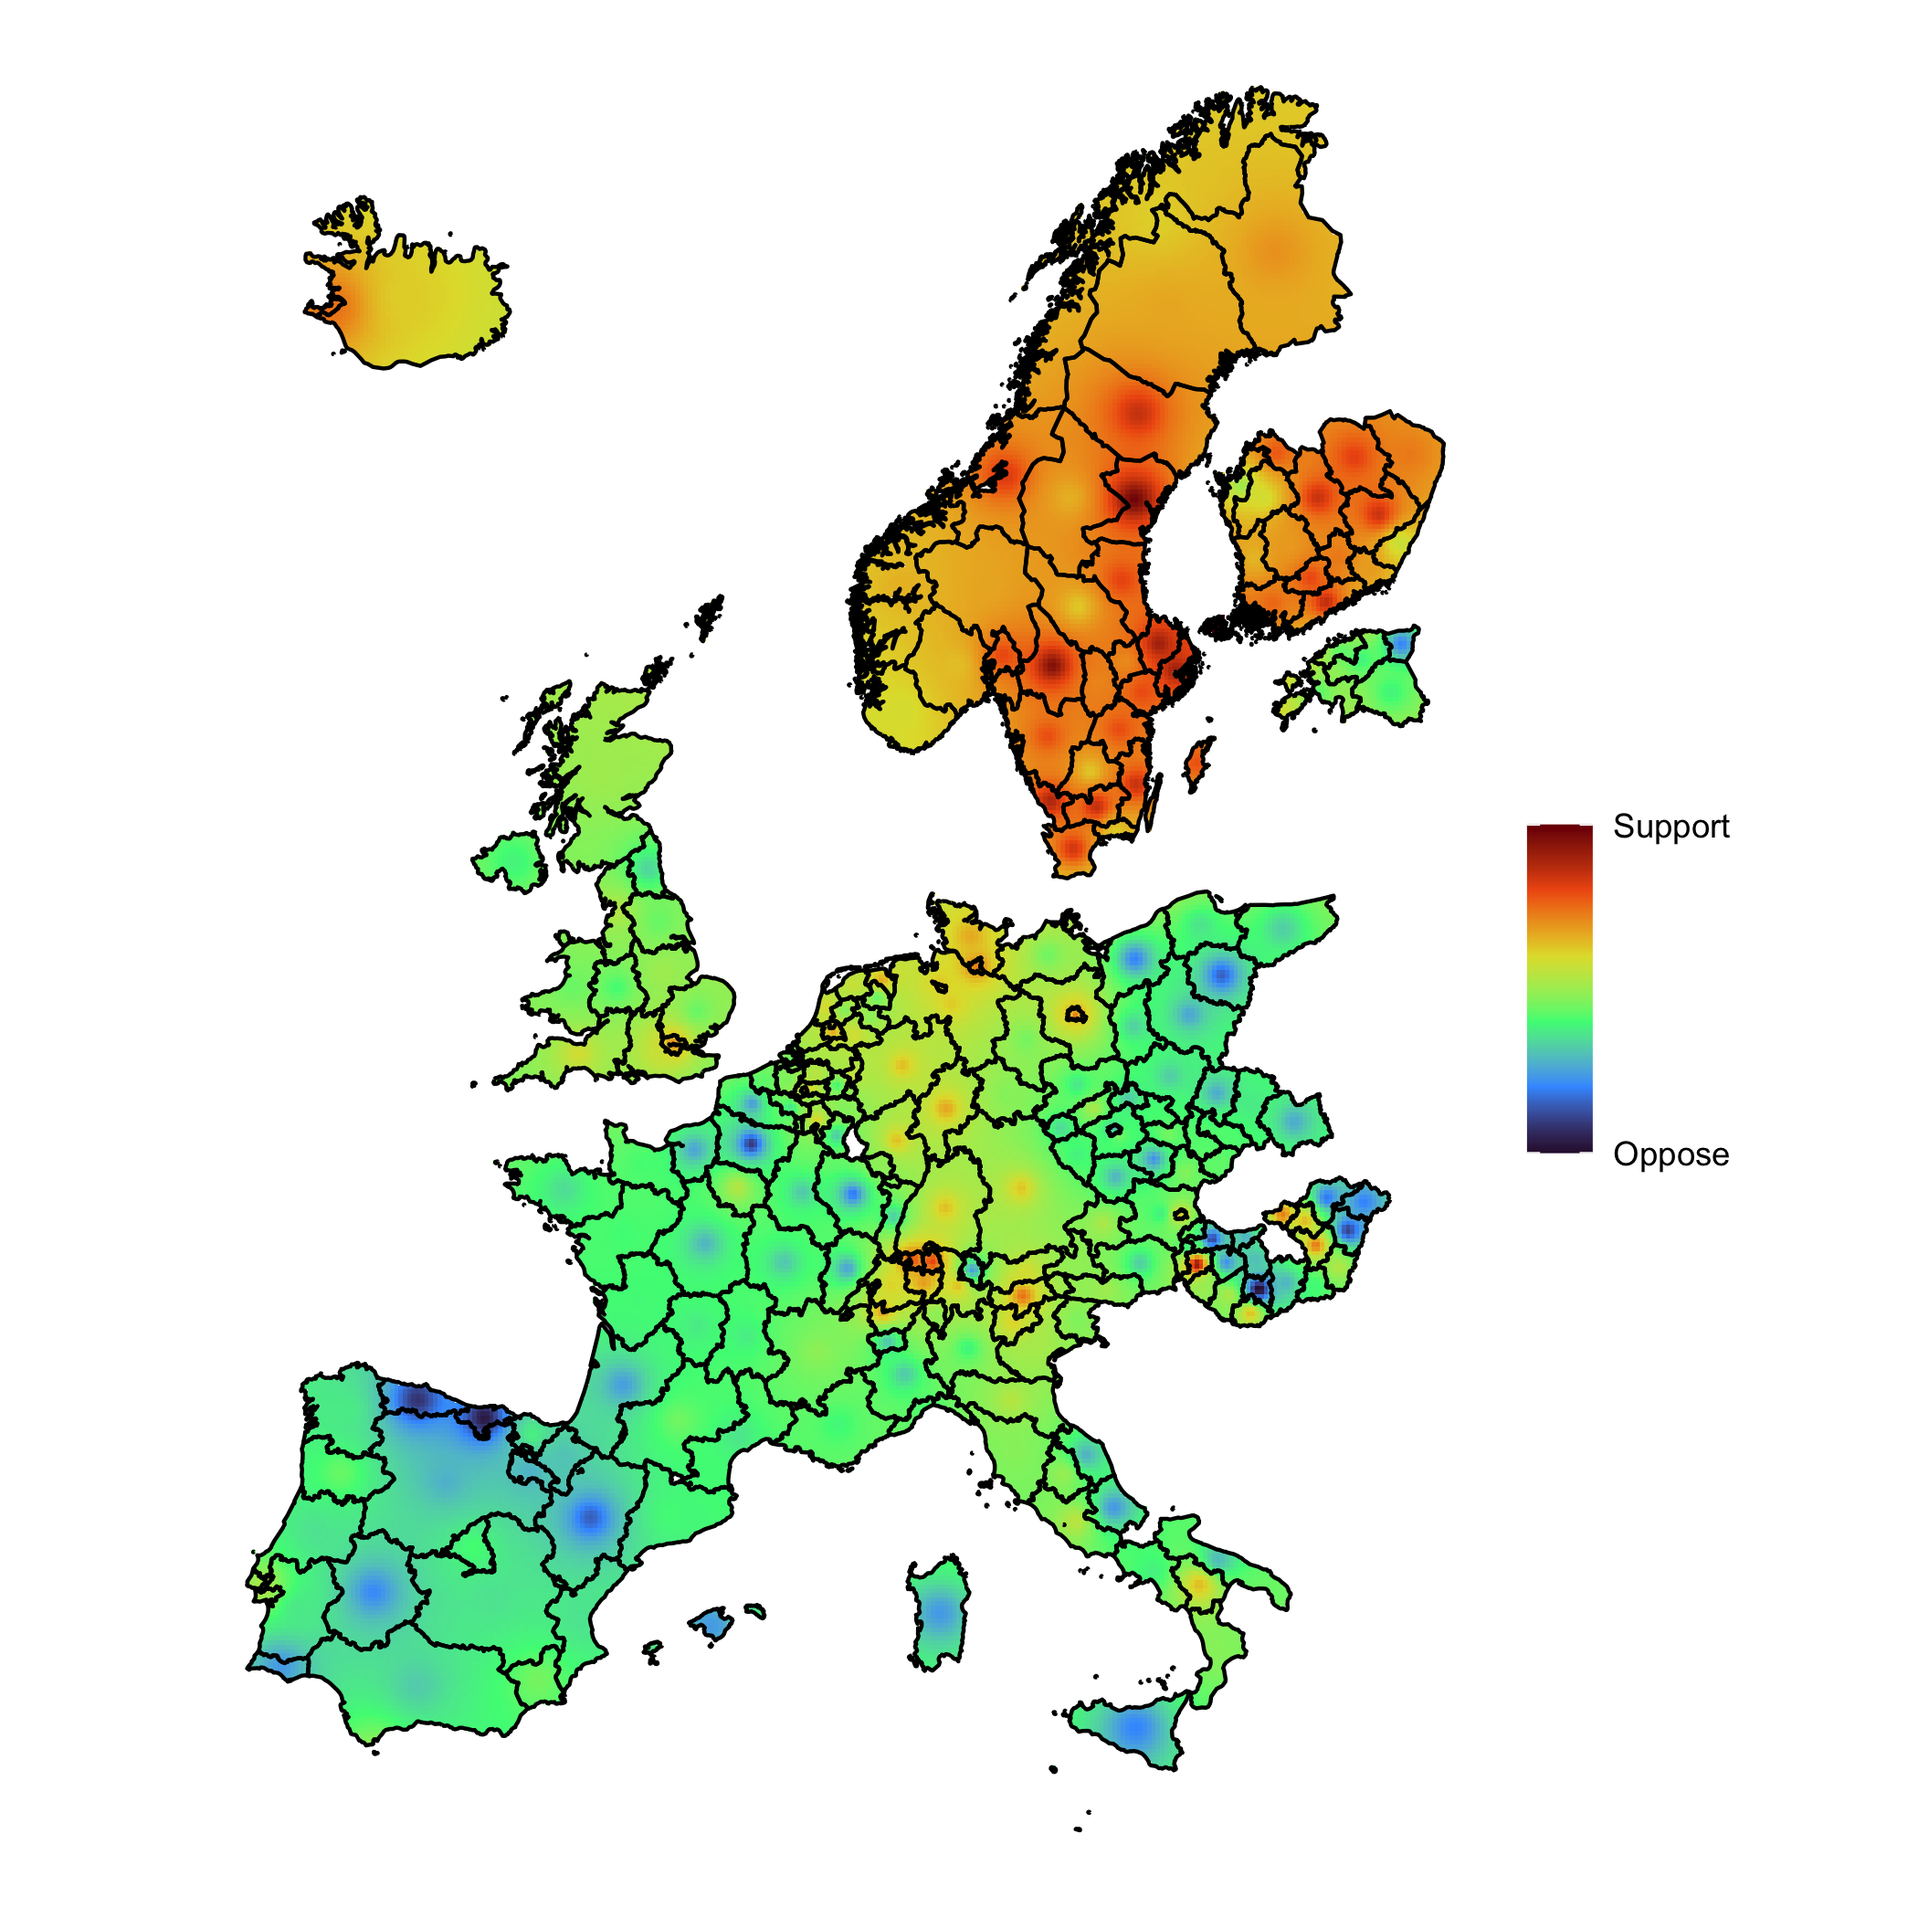
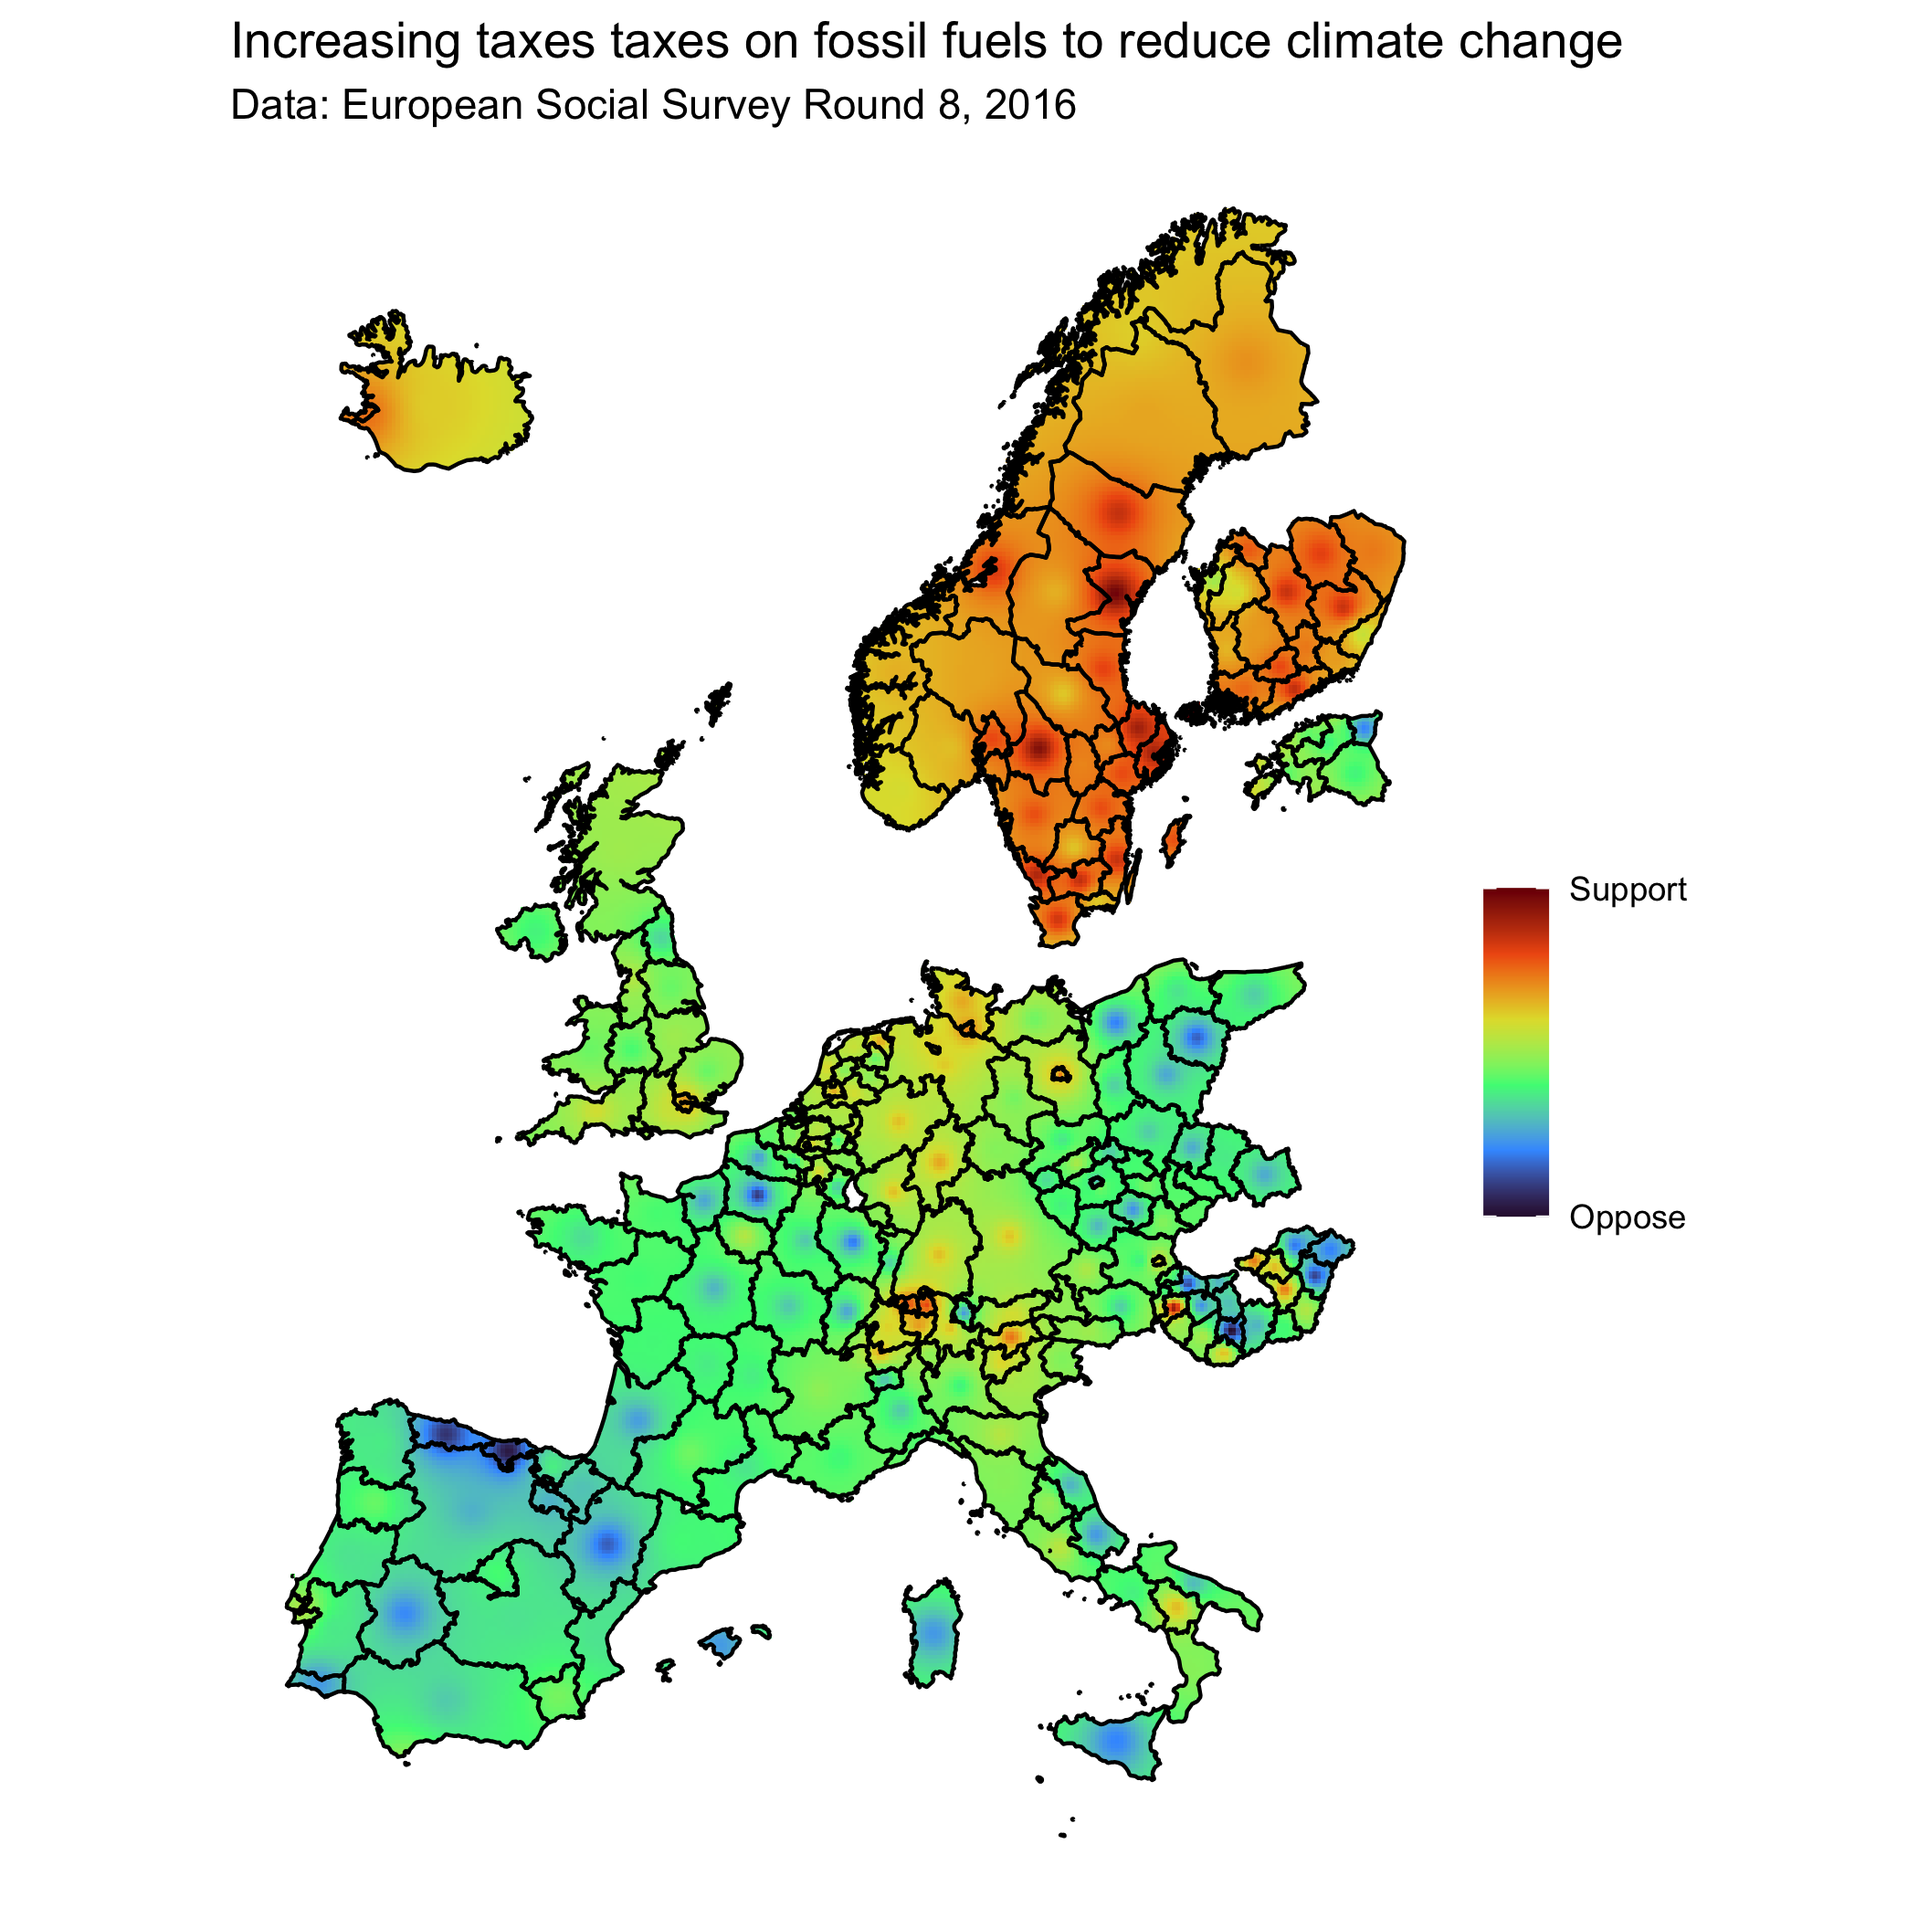
Session 12: details, fixes and links

Changed region(s): [[0.1238, 0.0, 0.8357, 0.9286], [0.7738, 0.4333, 0.8976, 0.65], [0.1548, 0.0929, 0.2786, 0.2476]]

diff --git a/dsr-12/01-fossil-fuels/README.md b/dsr-12/01-fossil-fuels/README.md
@@ -4,7 +4,7 @@ An example of how to plot survey-weighted statistics onto a map, using inverse d
 
 ## Sources
 
-The survey data come from Round 8 of the [European Social Survey][ess].
+The survey data come from Round 8 (2016) of the [European Social Survey][ess].
 
 [ess]: https://www.europeansocialsurvey.org/
 
@@ -17,7 +17,7 @@ The full survey question for the example follows:
 > 4 -- Somewhat against  
 > 5 -- Strongly against
 
-The shapefiles used were produced by [EuroGeographics][egs] and were fetched [from Eurostat][shp].
+The shapefiles used were released by [EuroGeographics][egs] in 2016 and were fetched [from Eurostat][shp].
 
 [egs]: https://eurogeographics.org/
 [shp]: https://ec.europa.eu/eurostat/web/gisco/geodata/reference-data/administrative-units-statistical-units
@@ -31,12 +31,17 @@ The code is freely adapted from Edzer Pebesma and Roger Bivand's _[Spatial Data 
 ### R code to generate the `ESS8e02_2_extract` dataset
 
 ```r
-# nothing fancy here
+# nothing fancy happening here
 haven::read_dta("ESS8e02_2.dta/ESS8e02_2.dta") %>%
     select(cntry, region, regunit, idno, pspwght, inctxff) %>%
     readr::write_tsv("data/ESS8e02_2_extract.tsv")
 ```
 
-## End result
+## End result (and others maps)
+
+The final product of the script is not as detailed as what Anthony produced (see [this archived blog post](https://www.r-bloggers.com/2014/12/maps-and-the-art-of-survey-weighted-maintenance/)), but is decent enough:
+  
 
 ![](fossil-fuels.png)
+
+For even cooler maps of the sort, see ["Isarithmic Maps of Public Opinion Data"](https://dsparks.wordpress.com/2011/10/24/isarithmic-maps-of-public-opinion-data/) by David B. Sparks, who sadly never released the code to produce that brilliant encoding of local density into alpha transparency.
